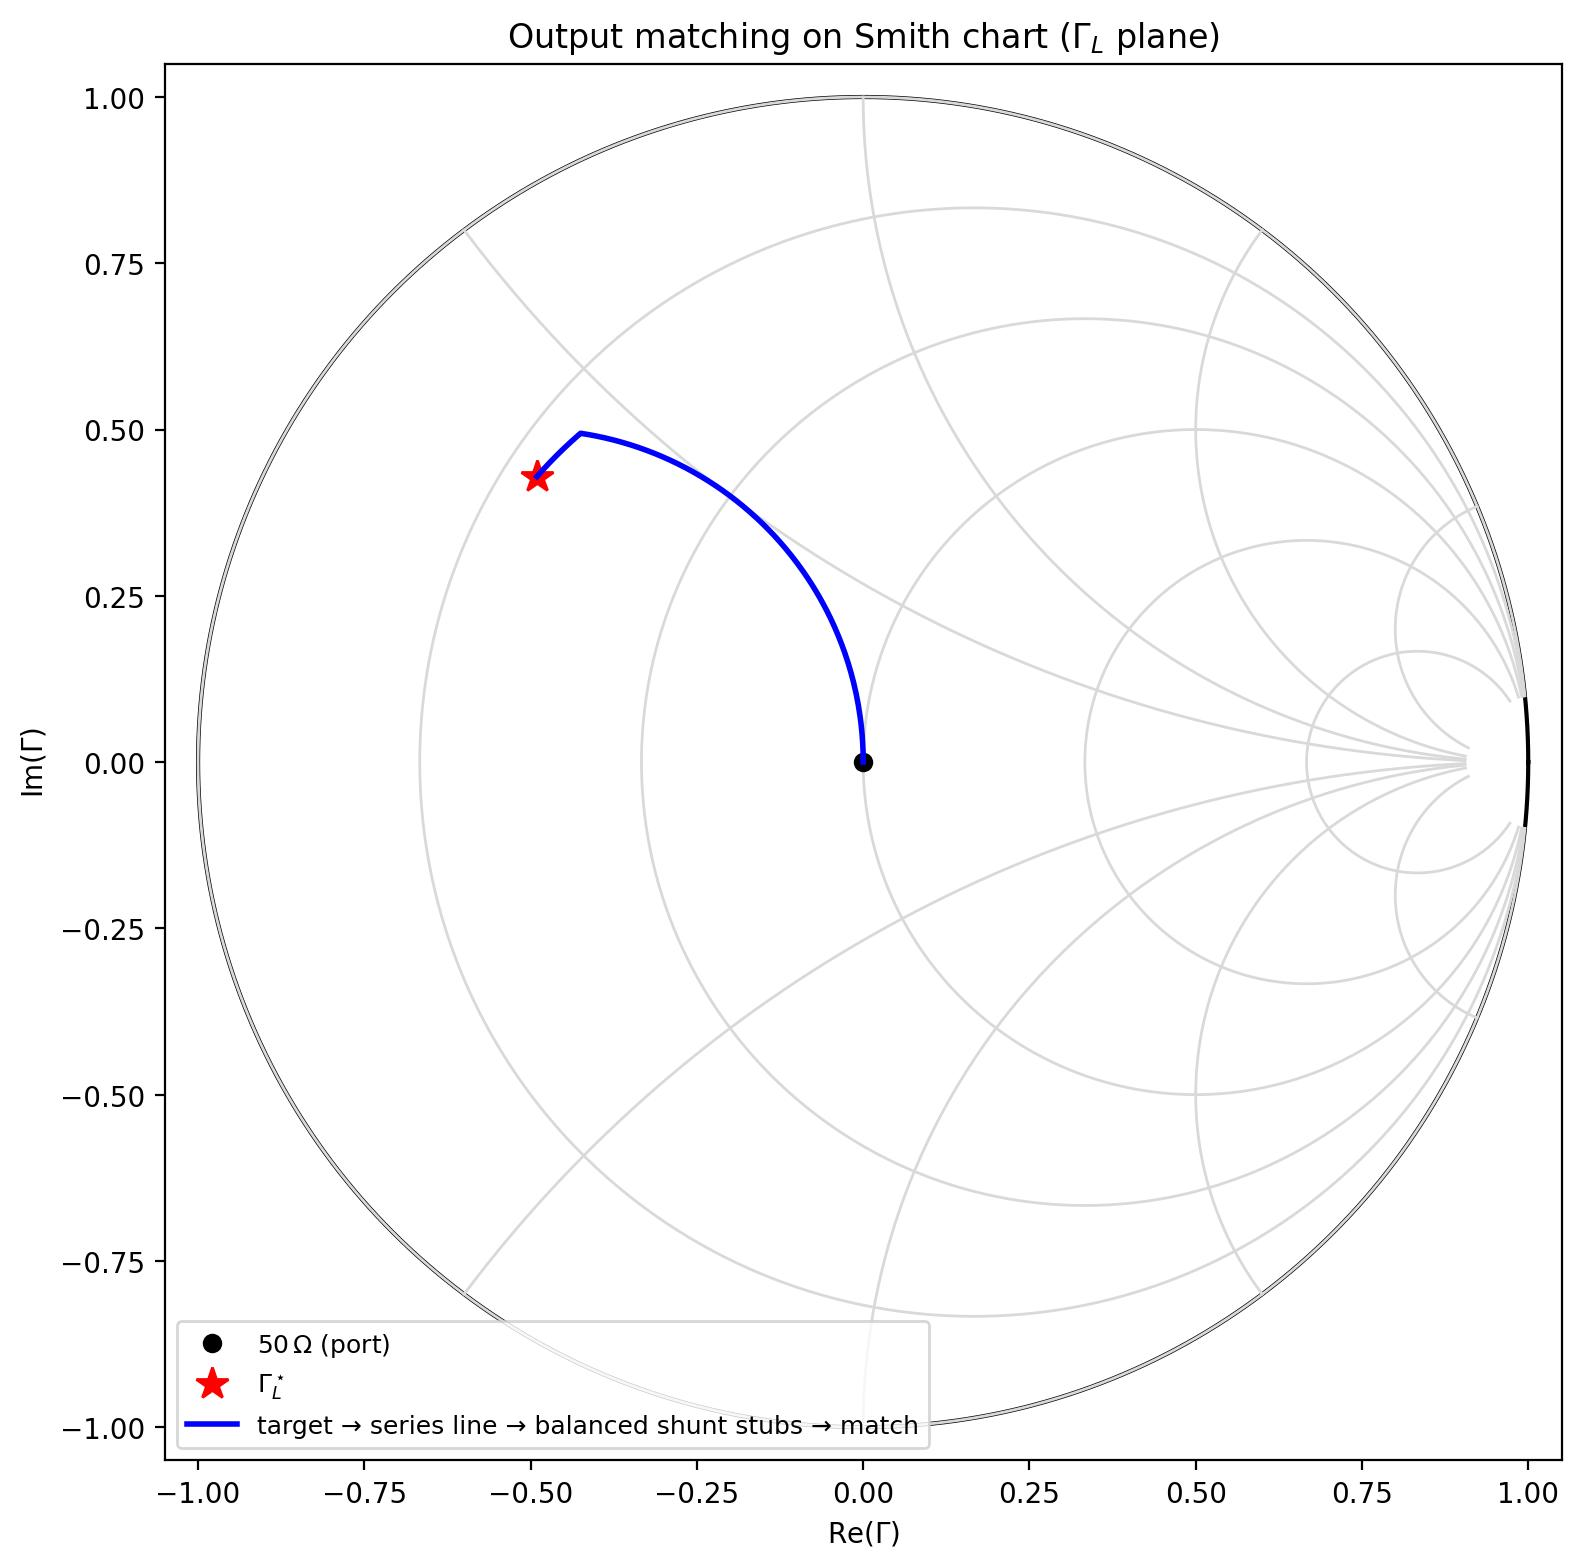
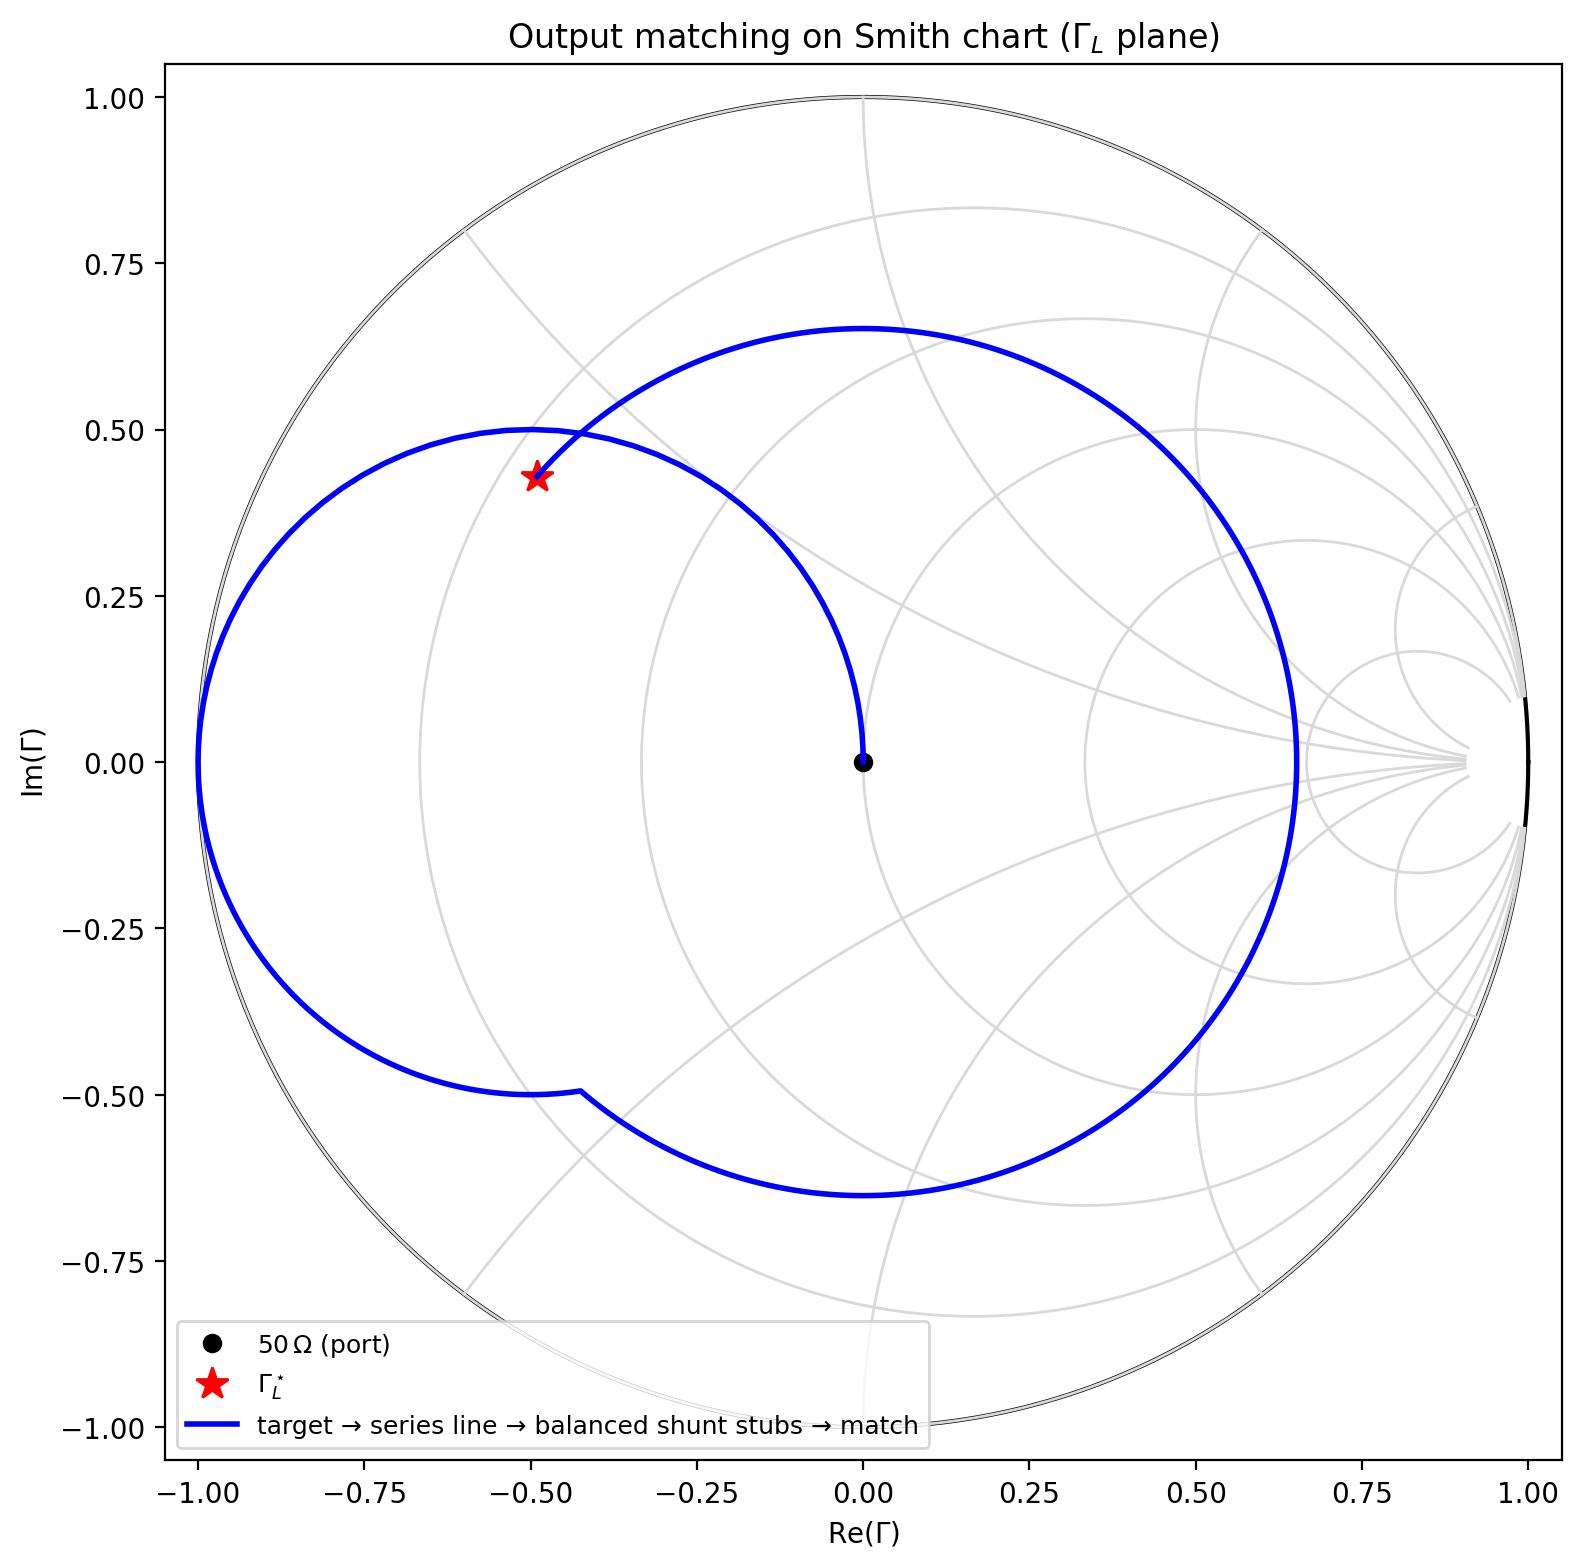
adding part 13

diff --git a/calculation/step9_smith.py b/calculation/step9_smith.py
@@ -481,7 +481,8 @@ def main() -> None:
     in_short, in_long = solve_shunt_stub_from_target_second_intersection(gamma_s_star)
     out_short, out_long = solve_shunt_stub_from_target_second_intersection(gamma_l_star)
     in_sol = in_short
-    out_sol = out_short
+    # Prefer the long-line output solution to avoid a very short physical line section.
+    out_sol = out_long
 
     print(f"Gamma_S* = {gamma_s_star.real:+.6f}{gamma_s_star.imag:+.6f}j")
     print(

diff --git a/final_project.md b/final_project.md
@@ -397,12 +397,13 @@ Equivalent lumped element at 1 GHz (balanced pair at the stub node):
 **Output (drain) Smith chart (Gamma_L plane):** one valid electrical-length solution at 1 GHz is:
 
 - series 50-ohm line before stub node: theta_port = 0.00 degrees
-- series 50-ohm line from stub node to device: theta_line ≈ 4.07 degrees
-- each 100-ohm open stub: theta_stub ≈ 59.81 degrees
+- series 50-ohm line from stub node to device: theta_line ≈ 134.74 degrees
+- each 100-ohm open stub: theta_stub ≈ 120.19 degrees
 
 Equivalent lumped element at 1 GHz (balanced pair at the stub node):
-- tan(theta_stub) ≈ +1.7190 → `B_total` ≈ +0.03438 S
-- `C_eq` ≈ 5.47 pF total (about 2.74 pF per 100-ohm stub)
+- tan(theta_stub) ≈ -1.7190 → `B_total` ≈ -0.03438 S
+- This corresponds to an **inductive** shunt element at 1 GHz:
+  - `L_eq` ≈ 4.63 nH total (about 9.26 nH per 100-ohm stub)
 
 ![NE7684A Step 9 Output Smith Chart](documentation/NE7684A_step9_output_smith.jpg)
 
@@ -451,10 +452,10 @@ Using the Step 9 electrical lengths:
 - Input match (each 100-ohm open stub, theta_stub ≈ 129.39°):
   - length ≈ (129.39/360)·180.00 mm ≈ **64.70 mm**
 
-- Output match (50-ohm line from stub node to device, theta_line ≈ 4.07°):
-  - length ≈ (4.07/360)·172.50 mm ≈ **1.95 mm**
-- Output match (each 100-ohm open stub, theta_stub ≈ 59.81°):
-  - length ≈ (59.81/360)·180.00 mm ≈ **29.90 mm**
+- Output match (50-ohm line from stub node to device, theta_line ≈ 134.74°):
+  - length ≈ (134.74/360)·172.50 mm ≈ **64.58 mm**
+- Output match (each 100-ohm open stub, theta_stub ≈ 120.19°):
+  - length ≈ (120.19/360)·180.00 mm ≈ **60.10 mm**
 
 Step 11: Bias network (high/low impedance quarter-wave feed, DC bias resistors, and decoupling)
 
@@ -508,3 +509,33 @@ The provided microstrip design curves do not include 200 ohm, so I compute w/h a
   - lambda_g ~ 186.50 mm -> quarter-wave length ~ 46.63 mm
 
 These 20-ohm / 200-ohm quarter-wave sections are used to feed the gate and drain bias while providing RF isolation at 1 GHz.
+
+Part 12: Drawing Layout
+
+![Drawing](documentation/drawing_layout.jpg)
+
+Part 13: Final amplifier circuit and performance tradeoff
+
+**Final topology (1 GHz):**
+- Selected device: NE7684A, biased at VDS = 3 V and ID = 10 mA
+- Input match: 50-ohm line + balanced 2×100-ohm open stubs to present `Gamma_S*` at the device plane and match the external input port
+- Output match: 50-ohm line + balanced 2×100-ohm open stubs to present `Gamma_L*` at the device plane and match the external output port
+- Bias network: gate divider from +5 V / -5 V to set VG ~ -0.47 V, drain resistor R3 = 200 ohm from +5 V, and quarter-wave high/low impedance bias feeds with decoupling/choke components
+
+**Selected terminations (device plane):**
+- `Gamma_S*` ≈ -0.198111 + j0.480831
+- `Gamma_L*` ≈ -0.490536 + j0.429297 (conjugate-match load from `Gamma_out(Gamma_S*)`)
+
+**Key performance at 1 GHz (device-plane metrics):**
+- Available gain: G_A ≈ 20.673 dB (> 18 dB requirement)
+- Noise figure: NF ≈ 1.408 dB (≤ 1.7 dB requirement)
+- Stability margins: m_in ≈ 0.343 and m_out ≈ 0.050 (both ≥ 0.05 requirement)
+
+**Tradeoffs:**
+- The selected point prioritizes meeting the hard gain/NF/stability-margin constraints under the available-gain (conjugate-match) framework.
+- The output stability margin is tight (~0.050), so the final realized layout should preserve electrical lengths accurately to maintain margin.
+
+Part 14: If the design cannot meet all requirements
+
+N/A (design meets the specified requirements).
+
